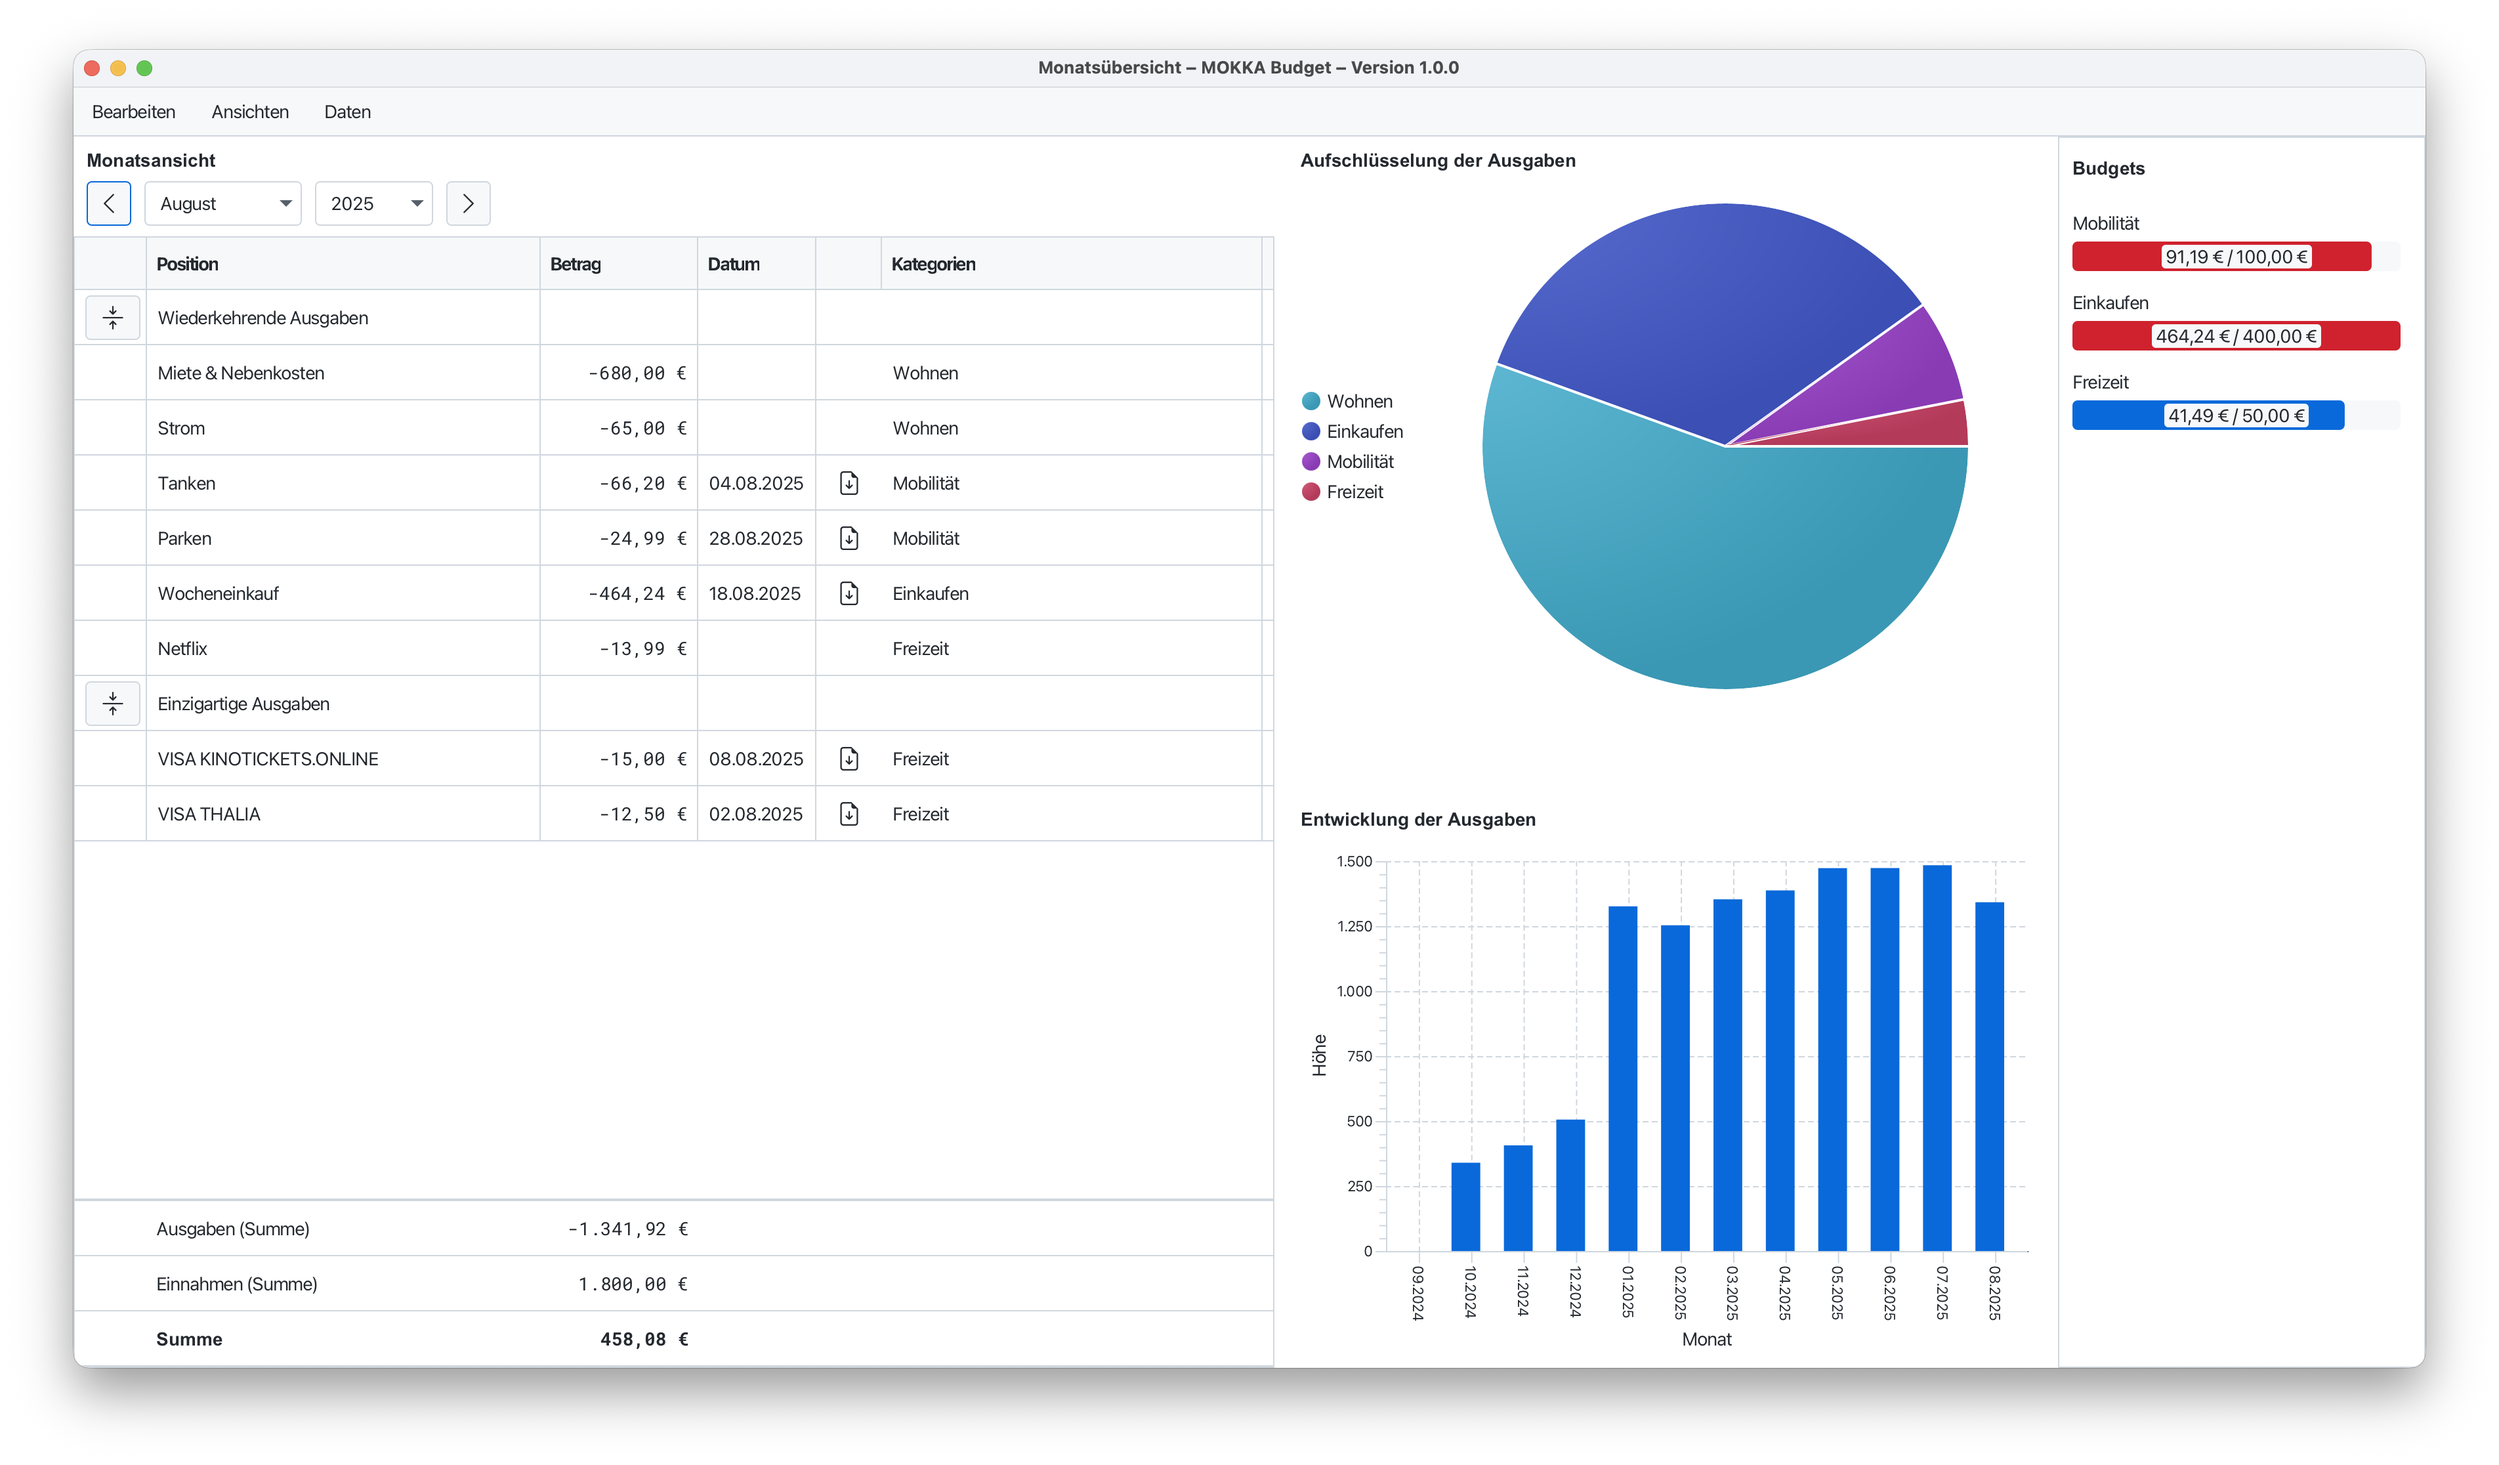
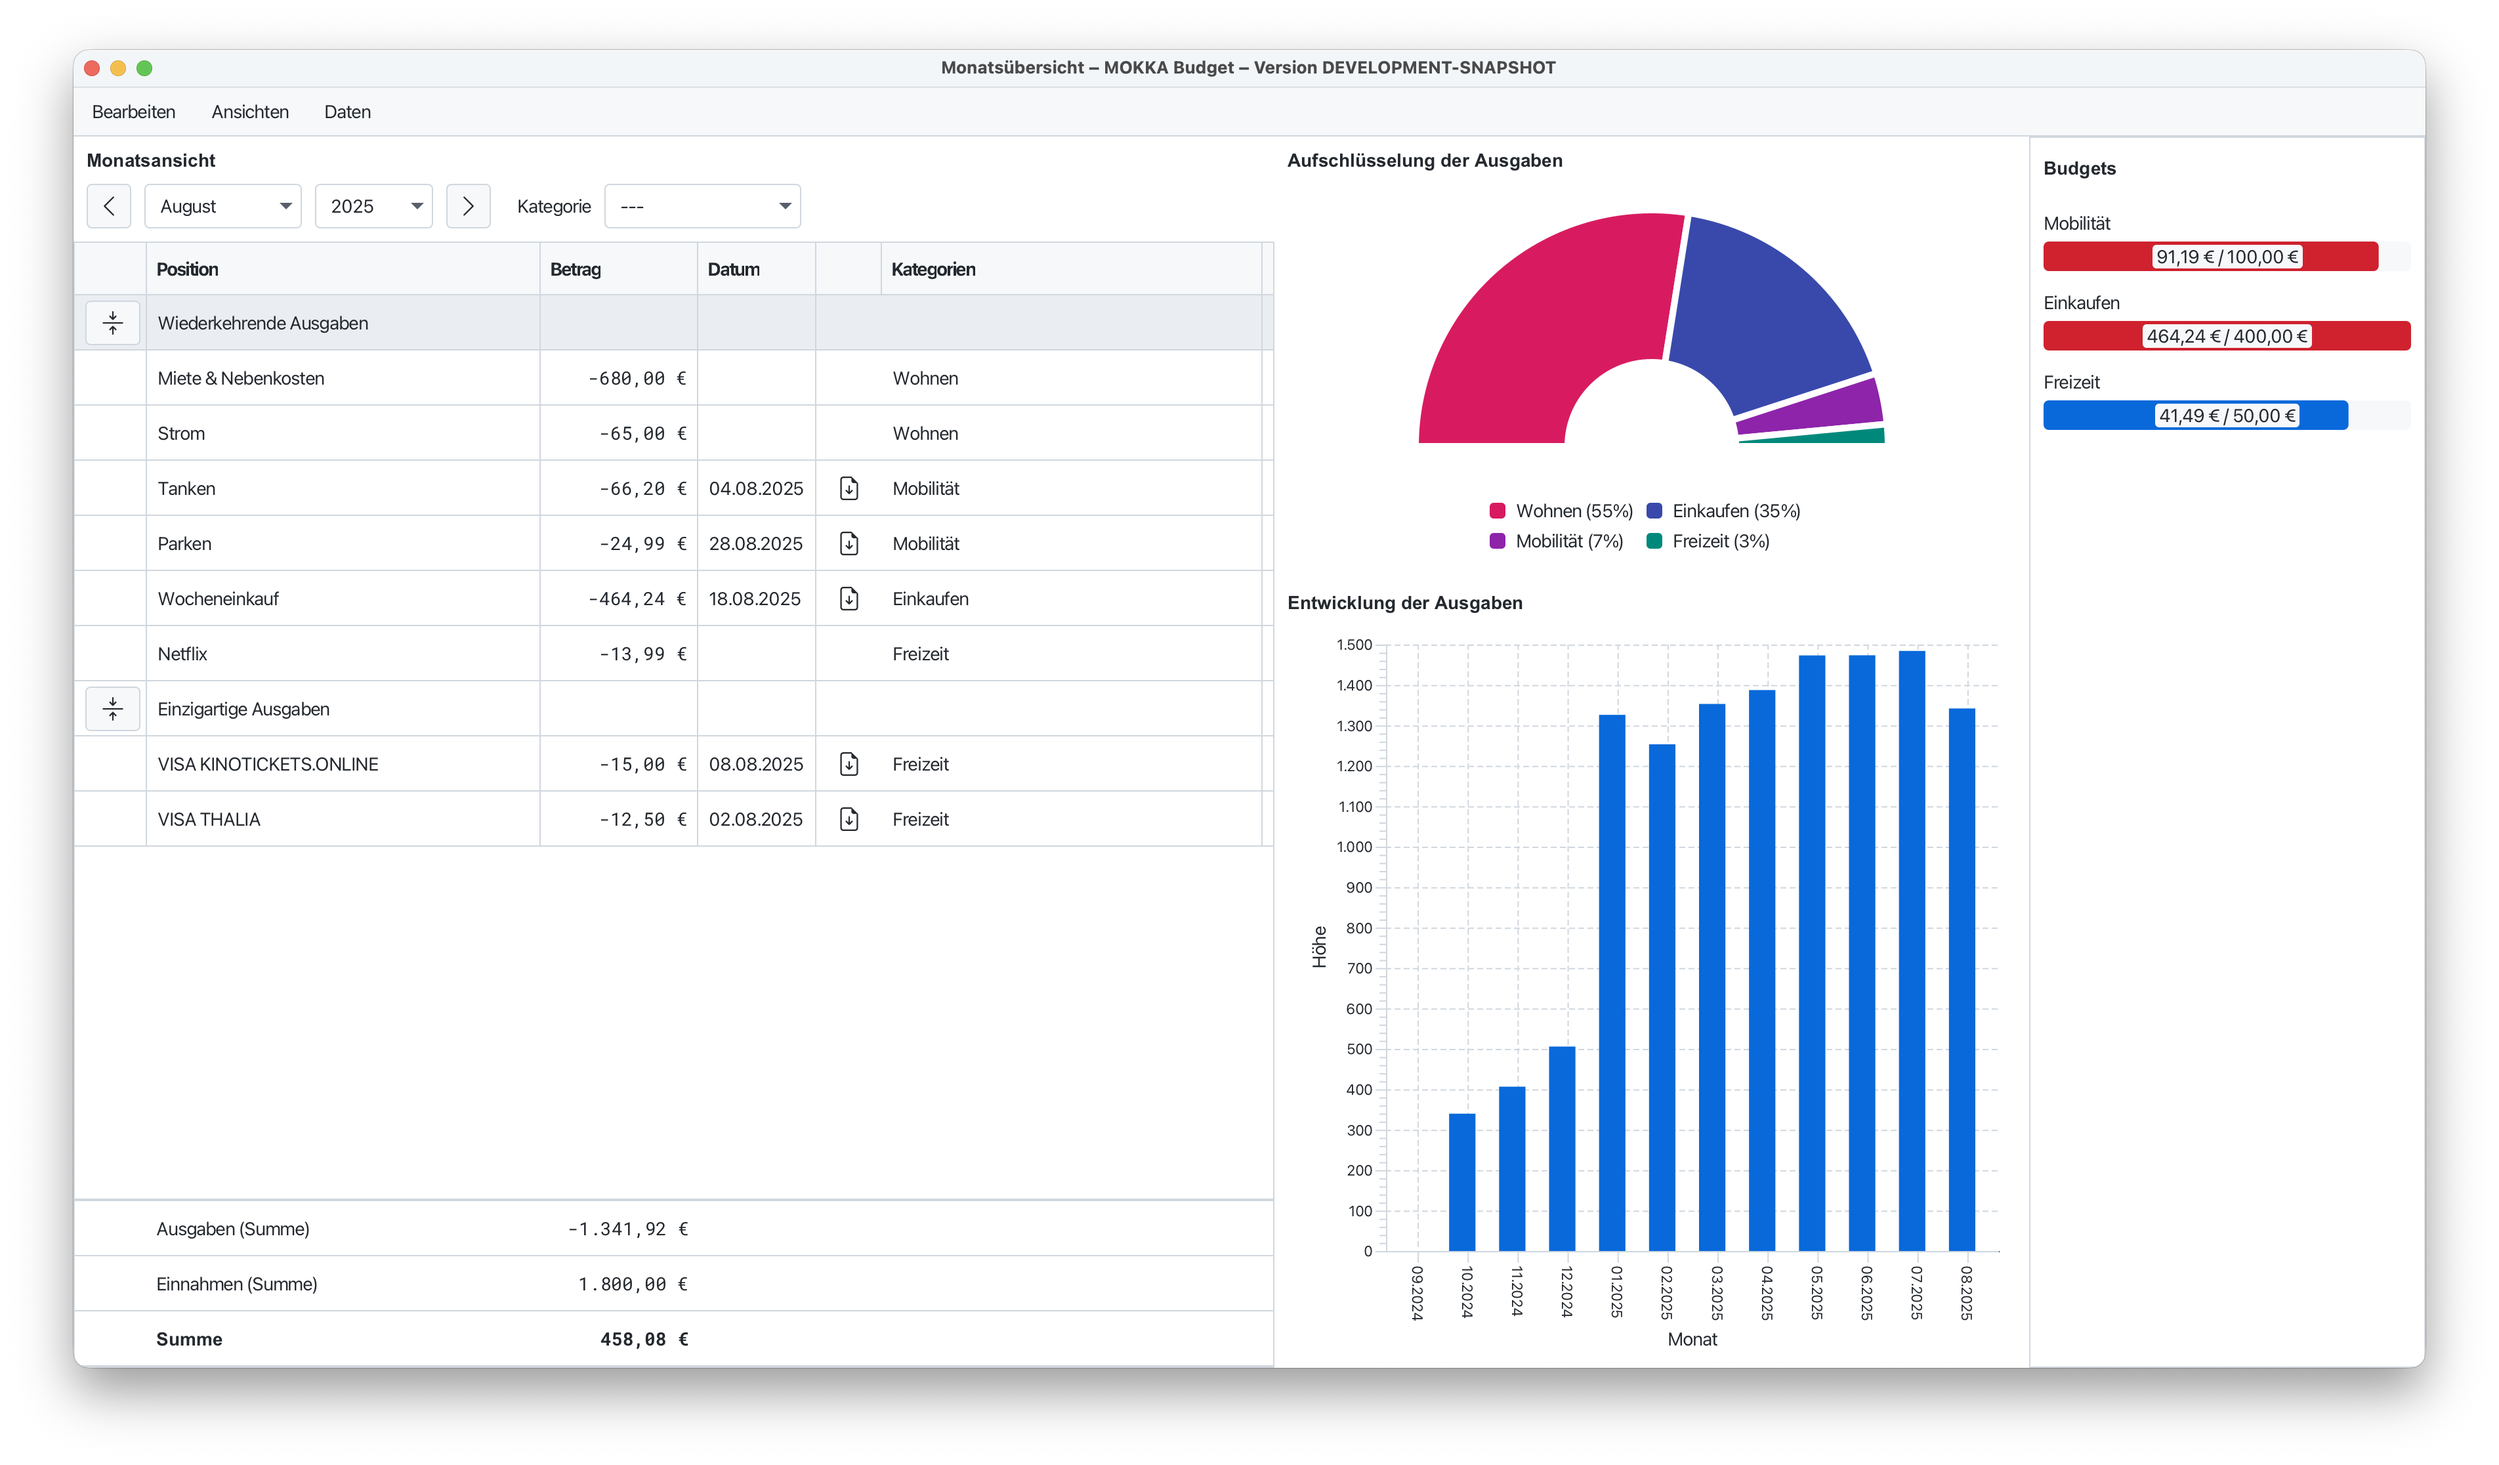
Anpassungen README.md

diff --git a/README.md b/README.md
@@ -89,7 +89,8 @@ Features:
 - Verwaltung von **Budgets je Kategorie**
 - **Analyse**, die die Entwicklung einer Ausgabenkategorie darstellt
 
-Und das beste: **Keine Cloud** oder sonstige Datenkraken. **Deine Daten** werden lokal **auf deinem Rechner** verarbeitet und gespeichert.
+Und das Beste: **Keine Cloud** oder Datenkraken. **Deine Daten** werden lokal **auf deinem Rechner** verarbeitet und **verschlüsselt** gespeichert.
+Die Verschlüsselung erfolgt ab Version 1.1.0 und ist deaktivierbar.
 
 <p align="right">(<a href="#readme-top">back to top</a>)</p>
 
